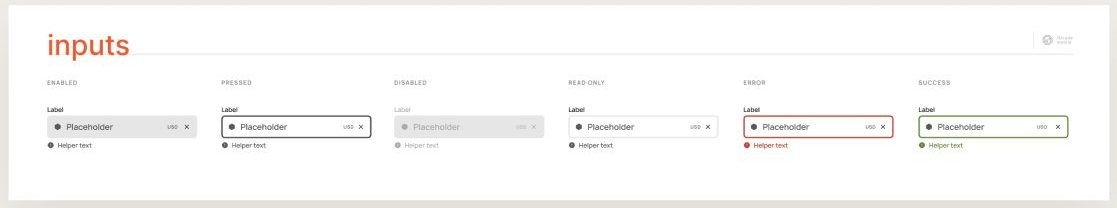
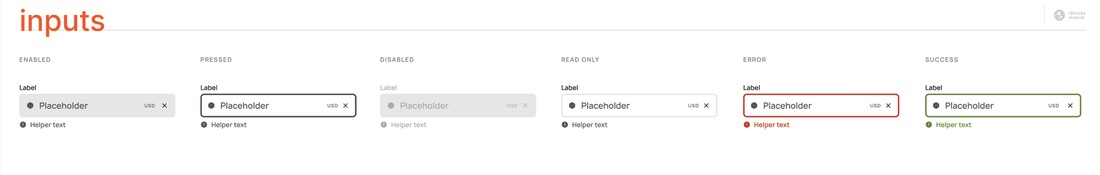
Sysdyne mobile practice: captions, alignment, hi-res docs
Align intro copy with the headline, use orange caption blocks above shots,
design principle footer, and export documentation on the section fill.

diff --git a/content/portfolio.js b/content/portfolio.js
@@ -1,1 +1,1 @@
-window.PORTFOLIO = {"projects":[{"id":"sysdyne","category":"desktop","title":"Sysdyne\nTechnologies","label":"SaaS Dashboard","year":"2022/26","color":"#e8612d","cover":"baked","image":"images/covers/sysdyne.png","caseStudy":"case-studies/sysdyne.html","mediaVersion":"20261121a"},{"id":"hello","category":"desktop","title":"Hello","label":"HCP Dashboard","year":"2019","color":"#b62b88","cover":"baked","image":"images/covers/hello.png","mediaVersion":"20251113c"},{"id":"utilimarc","category":"desktop","title":"Utilimarc\nTelematics","label":"SaaS Dashboard","year":"2018","color":"#566167","cover":"baked","image":"images/covers/utilimarc.png","mediaVersion":"20251113c"},{"id":"tallinder","category":"desktop","title":"Tallinder","label":"eCommerce","year":"2015","color":"#222222","cover":"baked","image":"images/covers/tallinder.png","mediaVersion":"20251113c"},{"id":"alior","category":"desktop","title":"Alior\nSync\nBanking","label":"Landing Page","year":"2014","color":"#fe9400","cover":"baked","image":"images/covers/alior.png","mediaVersion":"20251113c"},{"id":"irshad","category":"desktop","title":"Irshad\nPetroleum","label":"Product Page","year":"2014","color":"#1f4e88","cover":"baked","image":"images/covers/irshad.png","mediaVersion":"20251113c"},{"id":"transimeksa","category":"desktop","title":"Transimeksa\nLogistic\nSolutions","label":"Product Page","year":"2014","color":"#0f5d4f","cover":"baked","image":"images/covers/transimeksa.png","mediaVersion":"20251113c"},{"id":"ponto","category":"mobile","title":"Ponto Trial\nCampanion","label":"Mobile App","year":"2020","color":"#6a6a68","cover":"baked","image":"images/covers/ponto.png","mediaVersion":"20251113c"},{"id":"oticon","category":"mobile","title":"Oticon\nRemoteCare","label":"Mobile App","year":"2019","color":"#c2a88d","cover":"baked","image":"images/covers/oticon.png","mediaVersion":"20251113c"},{"id":"bahs","category":"mobile","title":"BAHS App","label":"Mobile App","year":"2018","color":"#f07228","cover":"baked","image":"images/covers/bahs.png","mediaVersion":"20251113c"},{"id":"hearing-fitness","category":"mobile","title":"Hearing\nFitness","label":"Tablet App","year":"2016","color":"#1e2428","cover":"baked","image":"images/covers/hearing-fitness.png","mediaVersion":"20251113c"},{"id":"sysdyne-illustrations","category":"motion","title":"Sysdyne\nIllustrations","label":"Motion","year":"2026","color":"#e5642c","cover":"baked","image":"images/covers/sysdyne-illustrations.png","caseStudy":"illustrations/stage.html","arrow":true,"mediaVersion":"20261116f"},{"id":"oticon-remotecare-motion","category":"motion","title":"Oticon\nRemoteCare","label":"Motion","year":"2020","color":"#b62b88","cover":"baked","image":"images/covers/oticon-remotecare-motion.png","caseStudy":"remotecare/stage.html","arrow":true,"mediaVersion":"20261119a"}]};
+window.PORTFOLIO = {"projects":[{"id":"sysdyne","category":"desktop","title":"Sysdyne\nTechnologies","label":"SaaS Dashboard","year":"2022/26","color":"#e8612d","cover":"baked","image":"images/covers/sysdyne.png","caseStudy":"case-studies/sysdyne.html","mediaVersion":"20261121b"},{"id":"hello","category":"desktop","title":"Hello","label":"HCP Dashboard","year":"2019","color":"#b62b88","cover":"baked","image":"images/covers/hello.png","mediaVersion":"20251113c"},{"id":"utilimarc","category":"desktop","title":"Utilimarc\nTelematics","label":"SaaS Dashboard","year":"2018","color":"#566167","cover":"baked","image":"images/covers/utilimarc.png","mediaVersion":"20251113c"},{"id":"tallinder","category":"desktop","title":"Tallinder","label":"eCommerce","year":"2015","color":"#222222","cover":"baked","image":"images/covers/tallinder.png","mediaVersion":"20251113c"},{"id":"alior","category":"desktop","title":"Alior\nSync\nBanking","label":"Landing Page","year":"2014","color":"#fe9400","cover":"baked","image":"images/covers/alior.png","mediaVersion":"20251113c"},{"id":"irshad","category":"desktop","title":"Irshad\nPetroleum","label":"Product Page","year":"2014","color":"#1f4e88","cover":"baked","image":"images/covers/irshad.png","mediaVersion":"20251113c"},{"id":"transimeksa","category":"desktop","title":"Transimeksa\nLogistic\nSolutions","label":"Product Page","year":"2014","color":"#0f5d4f","cover":"baked","image":"images/covers/transimeksa.png","mediaVersion":"20251113c"},{"id":"ponto","category":"mobile","title":"Ponto Trial\nCampanion","label":"Mobile App","year":"2020","color":"#6a6a68","cover":"baked","image":"images/covers/ponto.png","mediaVersion":"20251113c"},{"id":"oticon","category":"mobile","title":"Oticon\nRemoteCare","label":"Mobile App","year":"2019","color":"#c2a88d","cover":"baked","image":"images/covers/oticon.png","mediaVersion":"20251113c"},{"id":"bahs","category":"mobile","title":"BAHS App","label":"Mobile App","year":"2018","color":"#f07228","cover":"baked","image":"images/covers/bahs.png","mediaVersion":"20251113c"},{"id":"hearing-fitness","category":"mobile","title":"Hearing\nFitness","label":"Tablet App","year":"2016","color":"#1e2428","cover":"baked","image":"images/covers/hearing-fitness.png","mediaVersion":"20251113c"},{"id":"sysdyne-illustrations","category":"motion","title":"Sysdyne\nIllustrations","label":"Motion","year":"2026","color":"#e5642c","cover":"baked","image":"images/covers/sysdyne-illustrations.png","caseStudy":"illustrations/stage.html","arrow":true,"mediaVersion":"20261116f"},{"id":"oticon-remotecare-motion","category":"motion","title":"Oticon\nRemoteCare","label":"Motion","year":"2020","color":"#b62b88","cover":"baked","image":"images/covers/oticon-remotecare-motion.png","caseStudy":"remotecare/stage.html","arrow":true,"mediaVersion":"20261119a"}]};

diff --git a/content/case-studies/sysdyne.html b/content/case-studies/sysdyne.html
@@ -373,25 +373,32 @@
         <h2>Mobile system in practice<br />Responsive by<br />behavior, not<br />only by size.</h2>
         <p class="prose">The mobile library defined complete interaction patterns, component states, and responsive transformations. Dense desktop structures were rethought for touch, limited screen space, and fast decision-making in the field.</p>
       </div>
-      <article class="mob-block">
-        <h3>Component states: inputs designed for every interaction state</h3>
-        <p>Enabled, pressed, disabled, read-only, error, and success states made system feedback predictable across mobile workflows.</p>
+      <figure class="mob-block">
+        <figcaption class="mob-cap">
+          <span class="mob-idx">Component states</span>
+          <p>Inputs designed for every interaction state. Enabled, pressed, disabled, read-only, error, and success states made system feedback predictable across mobile workflows.</p>
+        </figcaption>
         <img class="study-shot" src="content/images/case-studies/sysdyne/mob-inputs.jpg" alt="Input component shown in enabled, pressed, disabled, read-only, error, and success states." />
-      </article>
+      </figure>
       <div class="mob-pair">
-        <article class="mob-block">
-          <h3>Touch-first patterns: date and time selection built around real tasks</h3>
-          <p>Single dates, presets, date and time combinations, and ranges were documented as complete flows—not isolated controls.</p>
+        <figure class="mob-block">
+          <figcaption class="mob-cap">
+            <span class="mob-idx">Touch-first patterns</span>
+            <p>Date and time selection built around real tasks. Single dates, presets, date and time combinations, and ranges were documented as complete flows, not isolated controls.</p>
+          </figcaption>
           <img class="study-shot" src="content/images/case-studies/sysdyne/mob-dates.jpg" alt="Date and time picker flows: calendar, presets, time wheels, and a date range." />
-        </article>
-        <article class="mob-block">
-          <h3>Responsive transformation: tables become task-focused cards on smaller screens</h3>
-          <p>Instead of compressing dense grids, the system reorganized rows into stacked cards while preserving hierarchy, totals, and variance states.</p>
+        </figure>
+        <figure class="mob-block">
+          <figcaption class="mob-cap">
+            <span class="mob-idx">Responsive transformation</span>
+            <p>Tables become task-focused cards on smaller screens. Instead of compressing dense grids, the system reorganized rows into stacked cards while preserving hierarchy, totals, and variance states.</p>
+          </figcaption>
           <img class="study-shot" src="content/images/case-studies/sysdyne/mob-table.jpg" alt="A materials table and a line-item table, each shown again as stacked cards for a narrow screen." />
-        </article>
+        </figure>
       </div>
       <div class="principle">
-        <p>Preserve the meaning of the<br />information.<br />Adapt how users act on it.</p>
+        <p class="principle-label">Design principle</p>
+        <p class="principle-statement">Preserve the meaning of the<br />information.<br />Adapt how users act on it.</p>
       </div>
     </div>
   </section>

diff --git a/css/study.css b/css/study.css
@@ -986,48 +986,66 @@
 .study-drv { background: #ffb39e; }
 
 .study-mob { background: #efede7; }
-.study-mob .eyebrow { color: #171614; }
-.study-mob .principle .eyebrow { color: var(--orange); }
 .mob-head {
   display: grid;
   grid-template-columns: minmax(0, 1.2fr) minmax(260px, 0.8fr);
   column-gap: 40px;
-  align-items: end;
+  align-items: start;
 }
-.mob-head .eyebrow { grid-column: 1; margin-bottom: 28px; }
 .mob-head h2 {
   grid-column: 1;
+  grid-row: 1;
+  margin: 0;
   font-size: clamp(46px, 5.2vw, 72px);
   line-height: 0.9;
   letter-spacing: -0.045em;
 }
 .mob-head .prose {
   grid-column: 2;
-  grid-row: 2;
+  grid-row: 1;
+  align-self: start;
   max-width: 380px;
+  margin: 0;
   color: #6d6962;
   font-size: 16px;
-  line-height: 1.45;
+  font-weight: 500;
+  line-height: 1.5;
 }
 .mob-block {
-  margin-top: 48px;
+  margin: 48px 0 0;
   padding-top: 28px;
   border-top: 1px solid rgba(23, 22, 20, 0.16);
+  display: flex;
+  flex-direction: column;
+  align-items: flex-start;
+  text-align: left;
 }
-.mob-block .eyebrow { margin: 0 0 12px; color: var(--orange); }
-.mob-block h3 {
+.mob-cap { width: 100%; margin: 0 0 18px; text-align: left; }
+.mob-idx {
+  display: block;
+  margin-bottom: 10px;
+  color: var(--orange);
+  font-size: 12px;
+  font-weight: 700;
+  letter-spacing: 0.08em;
+  text-transform: uppercase;
+}
+.mob-cap p {
   margin: 0;
-  font-size: 22px;
-  font-weight: 600;
-  letter-spacing: -0.03em;
-  line-height: 1.2;
-}
-.mob-block p {
   max-width: 62em;
-  margin: 12px 0 22px;
-  color: #6d6962;
-  font-size: 16px;
-  line-height: 1.45;
+  color: #171614;
+  font-size: 15px;
+  font-weight: 500;
+  line-height: 1.4;
+}
+.study-mob .mob-block .study-shot {
+  display: block;
+  width: 100%;
+  height: auto;
+  vertical-align: top;
+  background: transparent;
+  border: 0;
+  box-shadow: none;
 }
 .mob-pair {
   display: grid;
@@ -1041,6 +1059,28 @@
   margin-top: 0;
   padding-top: 0;
   border-top: 0;
+}
+.study-mob .principle {
+  display: grid;
+  grid-template-columns: minmax(140px, 22%) minmax(0, 1fr);
+  gap: 12px 28px;
+  align-items: start;
+}
+.study-mob .principle-label {
+  margin: 0;
+  color: var(--orange);
+  font-size: 12px;
+  font-weight: 700;
+  letter-spacing: 0.14em;
+  text-transform: uppercase;
+}
+.study-mob .principle-statement {
+  margin: 0;
+  color: #171614;
+  font-size: clamp(28px, 3.2vw, 48px);
+  font-weight: 500;
+  letter-spacing: -0.035em;
+  line-height: 1.08;
 }
 
 .batch-top {
@@ -1462,6 +1502,8 @@
   .study-drv .principle { grid-template-columns: 1fr; }
   .drv-cap p { max-width: none; }
   .mob-head, .mob-pair { grid-template-columns: 1fr; }
+  .study-mob .principle { grid-template-columns: 1fr; }
+  .mob-cap p { max-width: none; }
   .batch-top { grid-template-columns: 1fr; }
   .batch-top figure { margin-top: 28px; }
   .batch-top h2 { font-size: clamp(40px, 12vw, 60px); }

diff --git a/portfolio.html b/portfolio.html
@@ -10,7 +10,7 @@
     <link rel="preconnect" href="https://fonts.gstatic.com" crossorigin />
     <link href="https://fonts.googleapis.com/css2?family=Manrope:wght@200;500;600;700;800&display=swap" rel="stylesheet" />
     <link rel="stylesheet" href="css/site.css?v=20261117h" />
-    <link rel="stylesheet" href="css/study.css?v=20261121a" />
+    <link rel="stylesheet" href="css/study.css?v=20261121b" />
     <link rel="stylesheet" href="css/illustrations.css?v=20261117d" />
   </head>
   <body>
